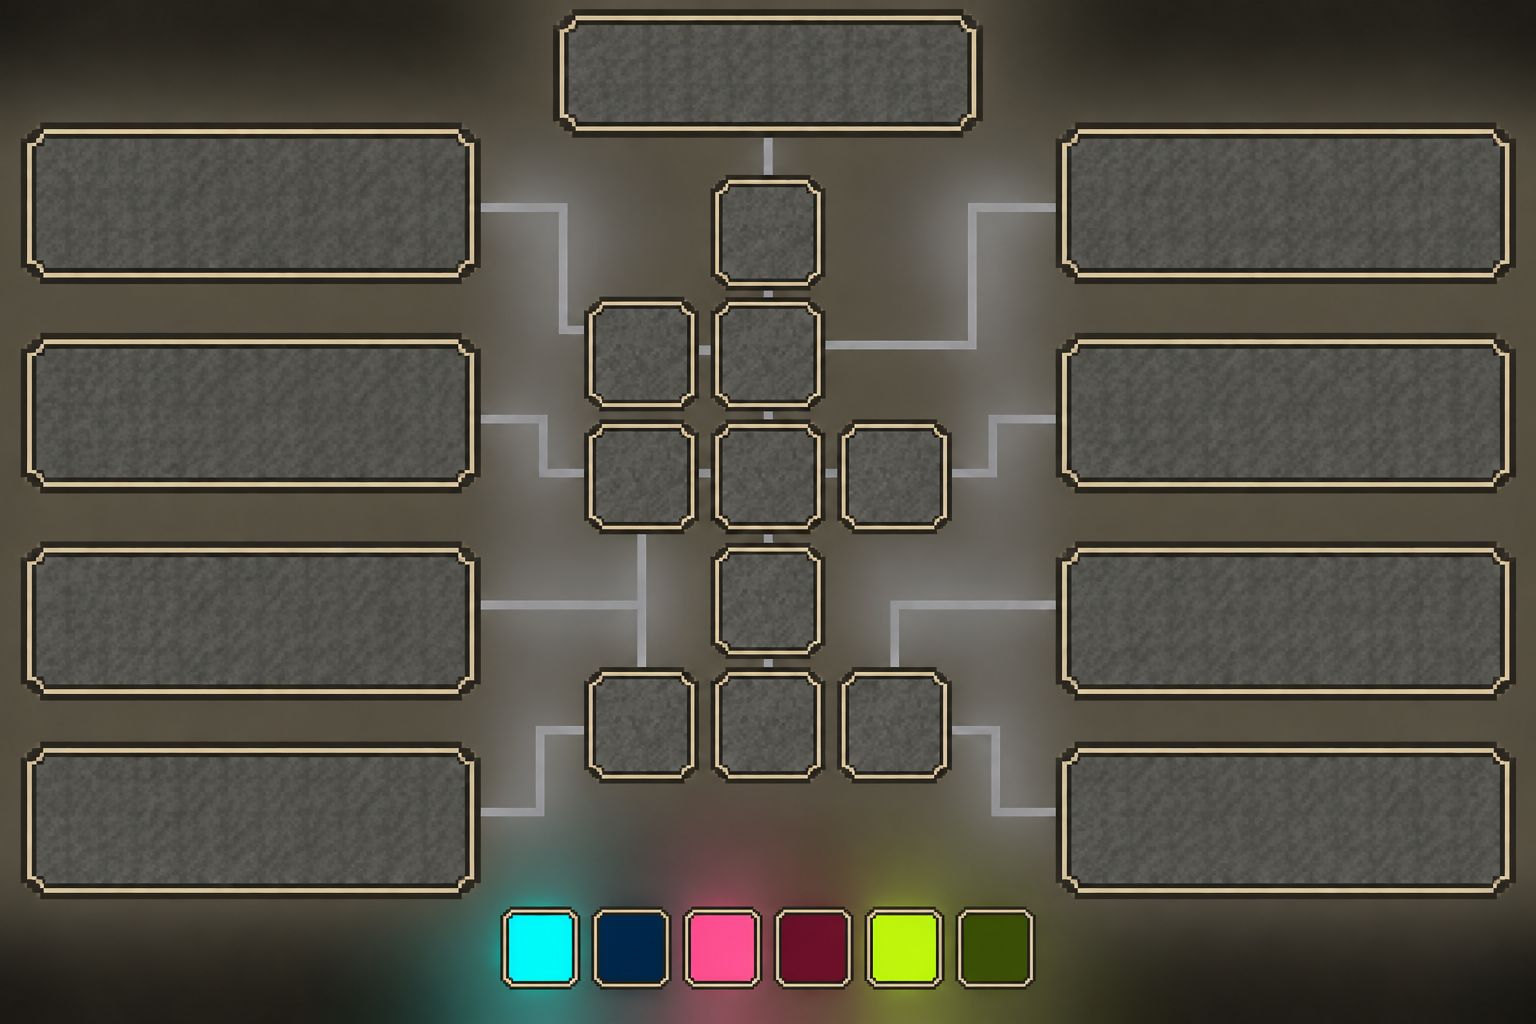
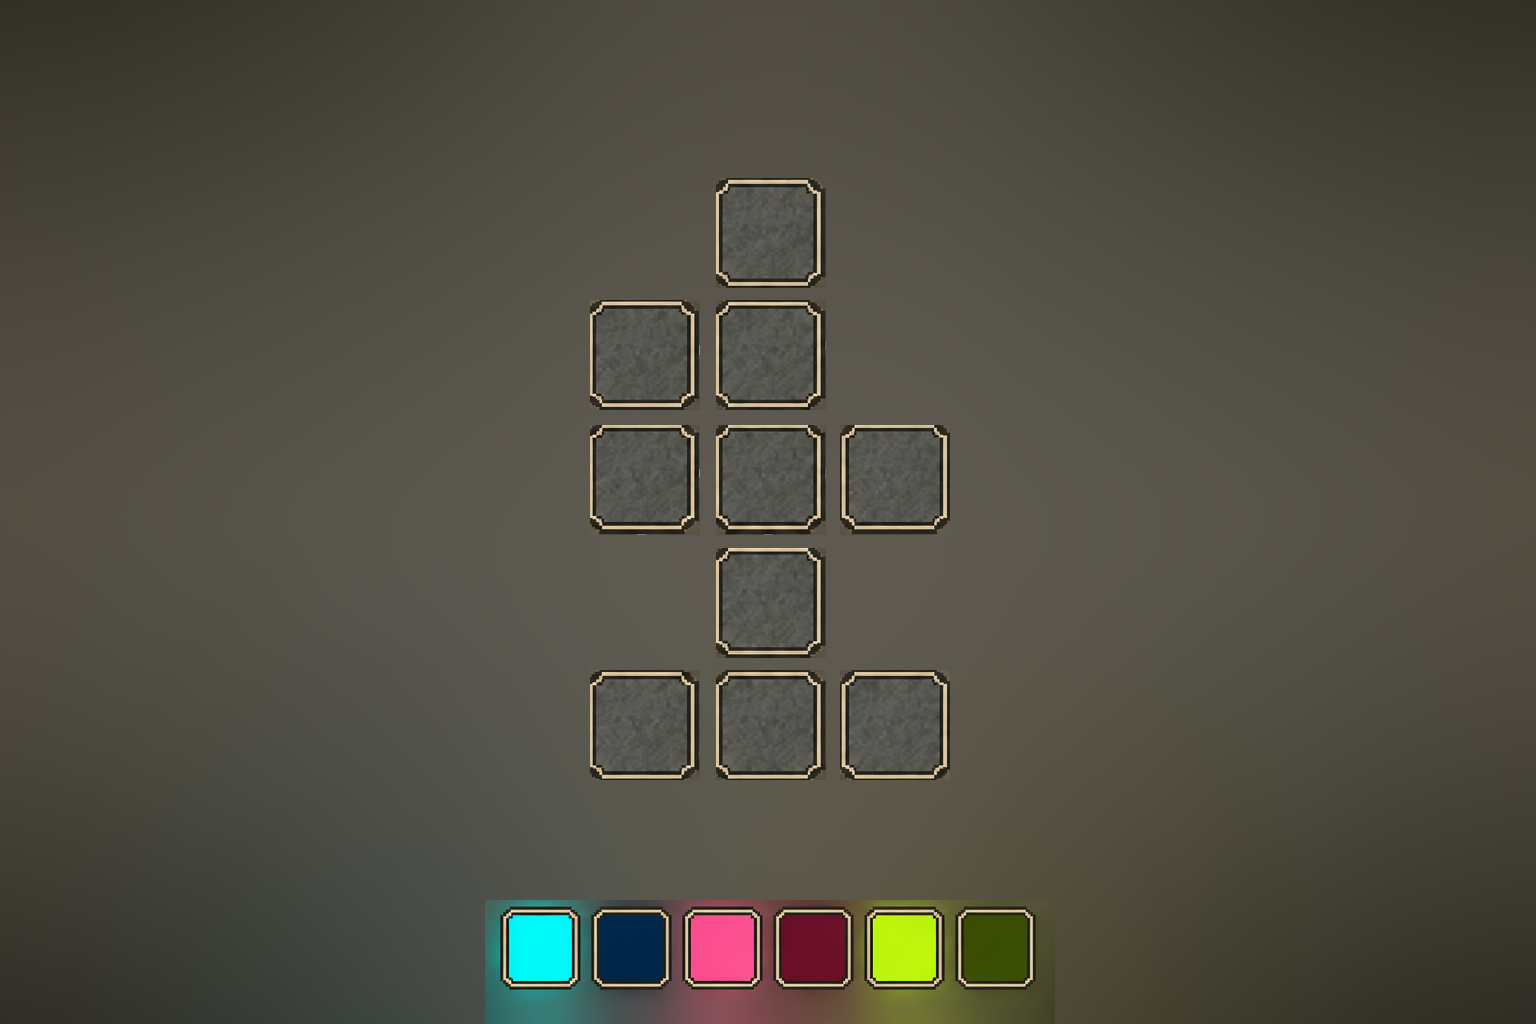
Tiny fixes

diff --git a/src/lib/bso/tasks/discoBloodbathActivity.ts b/src/lib/bso/tasks/discoBloodbathActivity.ts
@@ -153,7 +153,7 @@ export const discoBloodbathTask: MinionTask = {
 							])
 						: 'The crowd was lively enough.';
 		const lure = rng.roll(10)
-			? ' Someone mentioned that the Disco Fever is still hot — have you claimed your Lazy box yet?'
+			? ' Someone mentioned that the Disco Fever is still hot... they were dead wrong 💀'
 			: '';
 		const story = isDiscoHalloween() ? discoHalloweenStory(data.club) : null;
 		const storyEnding = story ? rng.pick(story.endings) : null;

diff --git a/src/lib/bso/discoHandler.ts b/src/lib/bso/discoHandler.ts
@@ -159,5 +159,5 @@ export async function handleDiscoRaveButton(
 		raveAesthetics: [...rave.aesthetics],
 		effectiveDuration
 	});
-	return { content: `${user.minionName} is going to the rave. It ends in 10 minutes.`, ephemeral: true };
+	return { content: `${user.minionName} is going to the rave. It ends in 10 minutes.` };
 }
